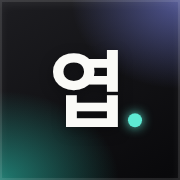
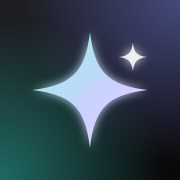
로고를 스파클(✦)로 교체: 파비콘·헤더·앱 아이콘·공유 이미지
- favicon.svg 추가, PNG 아이콘(32/180/192/512/마스커블) 모두 스파클 로고로 재생성
- 허브 공유 이미지 하단 로고 교체
- 새 아이콘이 바로 반영되도록 서비스워커 캐시 버전 yscode-v2로 올림

Claude-Session: https://claude.ai/code/session_01NaW5r8WBzNy5B2e9iMgdZz

diff --git a/sw.js b/sw.js
@@ -1,7 +1,7 @@
 // 앱 설치(PWA)용 서비스워커.
 // 페이지는 항상 네트워크를 먼저 확인해 최신 내용을 보여 주고, 오프라인일 때만 저장해 둔 사본을 씁니다.
 // 이미지·아이콘처럼 잘 바뀌지 않는 파일은 저장해 둔 사본을 먼저 씁니다. 이런 파일을 바꾸면 CACHE_VERSION을 올려 주세요.
-const CACHE_VERSION = 'yscode-v1';
+const CACHE_VERSION = 'yscode-v2';
 const APP_SHELL = ['./', './index.html', './manifest.webmanifest', './icon-192.png', './icon-512.png'];
 
 self.addEventListener('install', event => {

diff --git a/index.html b/index.html
@@ -6,6 +6,7 @@
     <title>엽쌤의 바이브 코딩 교실</title>
     <meta name="description" content="엽쌤이 수업과 일상에서 쓰려고 바이브 코딩으로 직접 만든 웹앱 모음">
     <meta name="theme-color" content="#0b0b0c">
+    <link rel="icon" type="image/svg+xml" href="favicon.svg">
     <link rel="icon" type="image/png" sizes="32x32" href="favicon-32.png">
     <link rel="icon" type="image/png" sizes="192x192" href="icon-192.png">
     <link rel="apple-touch-icon" href="apple-touch-icon.png">
